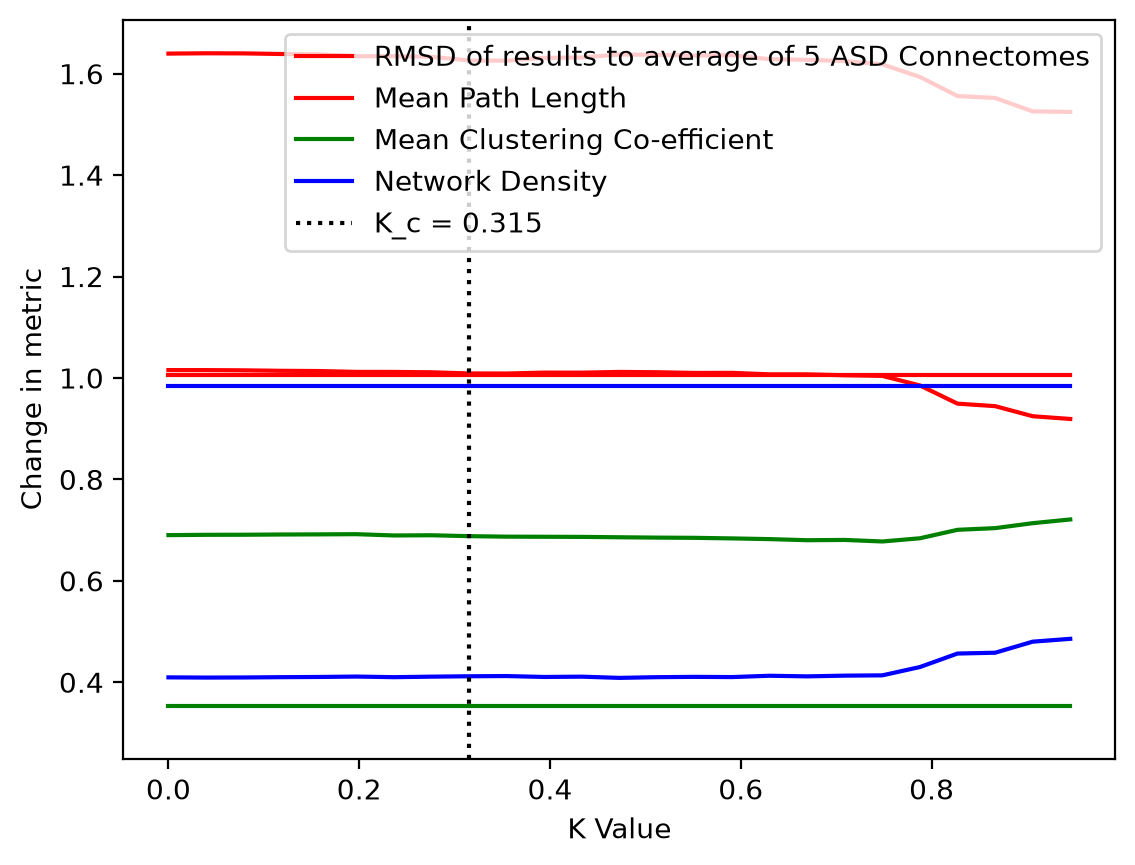
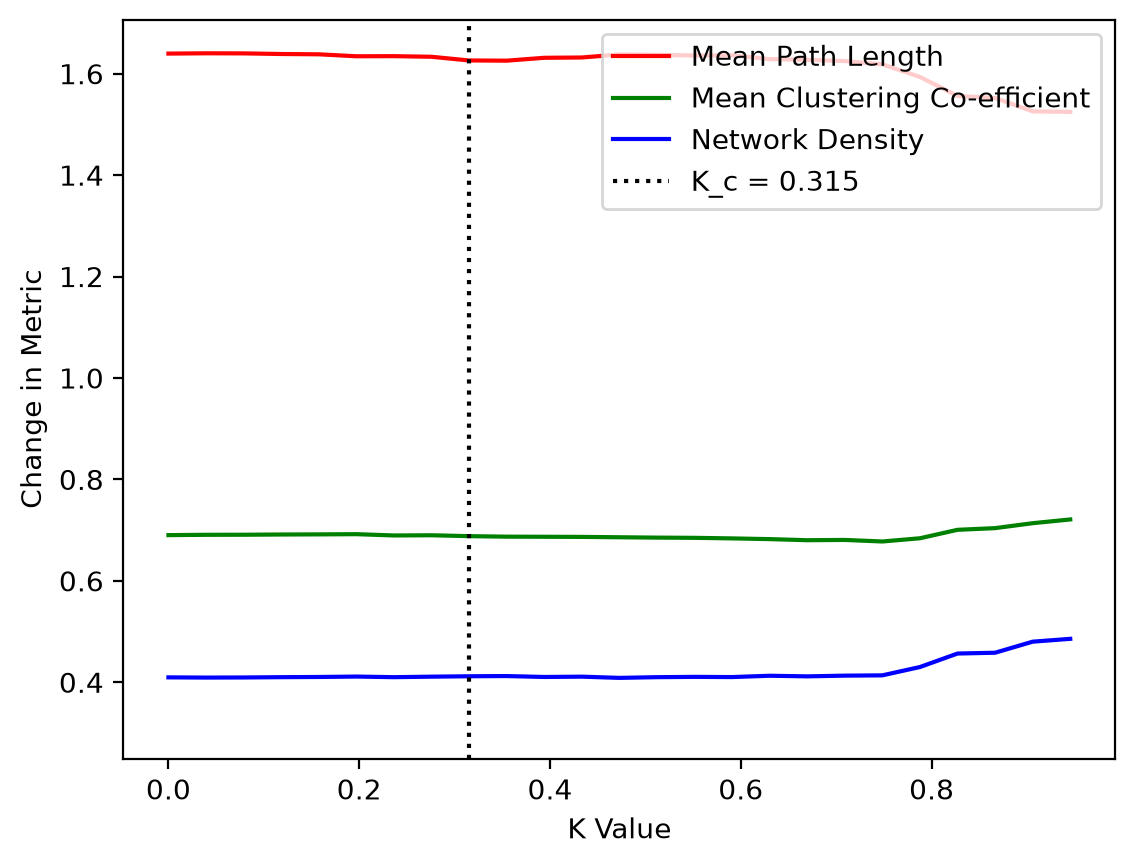
Added new images

diff --git a/analysis.py b/analysis.py
@@ -30,24 +30,25 @@ class Analysis:
             self.density_res.append(D)
 
     def plot_metric_change(self):
-        k_min, k_max = np.min(self.K_vals), np.max(self.K_vals)
-        L_0, C_0, D_0 = self.graph_metrics(self.W_0)
-        plt.plot([k_min, k_max], [L_0, L_0], color='red', label='Mean Path Length')
-        plt.plot([k_min, k_max], [C_0, C_0], color='green', label='Mean Clustering Co-efficient')
-        plt.plot([k_min, k_max], [D_0, D_0], color='blue', label='Network Density')
+        plt.figure()
+        #k_min, k_max = np.min(self.K_vals), np.max(self.K_vals)
+        #L_0, C_0, D_0 = self.graph_metrics(self.W_0)
+        #plt.plot([k_min, k_max], [L_0, L_0], color='red', label='Mean Path Length')
+        #plt.plot([k_min, k_max], [C_0, C_0], color='green', label='Mean Clustering Co-efficient')
+        #plt.plot([k_min, k_max], [D_0, D_0], color='blue', label='Network Density')
 
         self.metrics_of_results()
 
-        plt.plot(self.K_vals, self.path_length_res, color='red')
-        plt.plot(self.K_vals, self.cluster_res, color='green')
-        plt.plot(self.K_vals, self.density_res, color='blue')
+        plt.plot(self.K_vals, self.path_length_res, color='red', label='Mean Path Length')
+        plt.plot(self.K_vals, self.cluster_res, color='green', label='Mean Clustering Co-efficient')
+        plt.plot(self.K_vals, self.density_res, color='blue', label='Network Density')
         plt.plot(self.K_c, color = 'black', linestyle = '-')   
 
         plt.axvline(self.K_c, color='black', linestyle=':', label=f'K_c = {self.K_c:.3f}')
 
         plt.xlabel('K Value')
-        plt.ylabel('Change in metric')
-        plt.legend()
+        plt.ylabel('Change in Metric')
+        plt.legend(loc='upper right')
         plt.savefig('./Results/Graph_Metrics.png', dpi=200, bbox_inches='tight')
         plt.close()
 
@@ -158,6 +159,7 @@ class Analysis:
     def Plot_RMSD_Comparison(self):
         self.compare_rmsd()
         if self.config.compare_asd:
+            plt.figure()
             plt.plot(self.K_vals, self.RMSD_asd, color='red', label = f"RMSD of results to average of {self.n_subjects_selected_asd} ASD Connectomes")
             plt.xlabel("K value")
             plt.ylabel("RMSD")
@@ -165,6 +167,7 @@ class Analysis:
             plt.savefig('./Results/RMSD_ASD.png')
 
         if self.config.compare_nt:
+            plt.figure()
             plt.plot(self.K_vals, self.RMSD_nt, color='blue', label = f"RMSD of results to average of {self.n_subjects_selected_nt} NT Connectomes")
             plt.xlabel("K value")
             plt.ylabel("RMSD")
